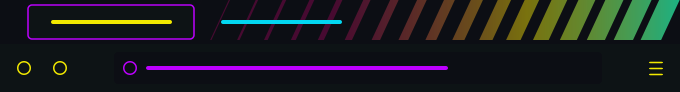
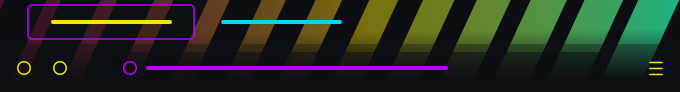
Better contrast

diff --git a/export.py b/export.py
@@ -11,7 +11,7 @@ import copy
 
 manifest_data = {
     "manifest_version": 3,
-    "version": "5.5",
+    "version": "5.8.3",
     "name": "Electric [color] Dark",
     "author": "Vito Ferri",
     "developer": {"name": "Vito Ferri", "url": "https://github.com/VitoFe"},
@@ -141,12 +141,12 @@ colors = {
         "accent_color_trans": "#BD00FF20",
         "accent_color_semitrans": "#BD00FF30",
         "accent_color_chrome": "#C72EFF",
-        "frame_color": "#0C0E14",
+        "frame_color": "#0C0E1480",
         "text_color": "#f2e900",
         "text_color_popup": "#002b32",
         "text_muted_color": "#02d7f2",
-        "toolbar_color": "#0D1315",
-        "theme_frame": "images/cyberpunk.svg"
+        "toolbar_color": "#0D131550",
+        "theme_frame": "images/cyberpunk.png"
     },
     "Cerbero": {
         "accent_color": "#fffe94",
@@ -157,7 +157,7 @@ colors = {
         "text_color": "#fffe94",
         "text_color_popup": "#0C0E14",
         "text_muted_color": "#cccb76",
-        "toolbar_color": "#0d0d0050",
+        "toolbar_color": "#0d0d0060",
         "theme_ntp_bg": "images/cerbero-ntpb.png",
         "theme_frame": "images/cerbero.png"
     },
@@ -229,8 +229,10 @@ for browser in ["firefox", "chrome"]:
                 }
             # Create extension package
             EXT = ".xpi" if browser == "firefox" else ".zip"
-            extension_file = f"{manifest['name'].replace(' ', '')}_{browser}_{manifest['version']}{EXT}"
-            with zipfile.ZipFile(extension_file, "w", zipfile.ZIP_DEFLATED) as package:
+            theme_file = f"{manifest['name'].replace(' ', '')}_{browser}_{manifest['version']}{EXT}"
+            if not os.path.exists("out"):
+                os.makedirs("out")
+            with zipfile.ZipFile(os.path.join("out", theme_file), "w", zipfile.ZIP_DEFLATED) as package:
                 for include_dir in [ "icons", "images"]:
                     for root, dirs, files in os.walk(include_dir):
                         for file in files:
